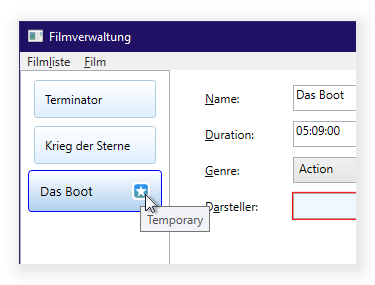
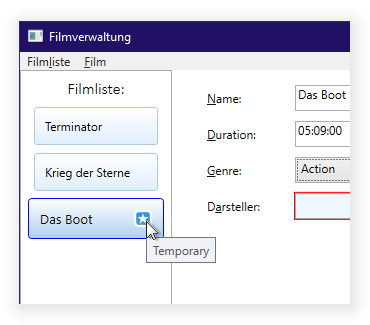
Instances of __IsExternalInit class removed; title added to film list
- Issue https://github.com/dotnet/roslyn/issues/50696 has been solved for this project

- Issue https://github.com/dotnet/roslyn/issues/50738 has been solved for this project

diff --git a/WPF/MainWindow.xaml b/WPF/MainWindow.xaml
@@ -25,11 +25,14 @@
 			<ResourceDictionary>
 				<vm:FilmlisteVM x:Key="filme" />
 
+				<SolidColorBrush x:Key="ListBorderBrush" Color="#FFABAdB3"/>
+
 				<ResourceDictionary.MergedDictionaries>
 					<ResourceDictionary Source="SnapToDevicePixelsStyles.xaml"/>
 				</ResourceDictionary.MergedDictionaries>
 			</ResourceDictionary>
 		</DockPanel.Resources>
+
 		<DockPanel.DataContext>
 			<StaticResource ResourceKey="filme"/>
 		</DockPanel.DataContext>
@@ -52,116 +55,121 @@
 		</Menu>
 
 		<DockPanel>
-			<ListBox x:Name="Filmliste" ItemsSource="{Binding}" DockPanel.Dock="Left" Padding="6,4" HorizontalContentAlignment="Stretch" MinWidth="150" SelectionChanged="Filmliste_SelectionChanged">
-				<ListBox.ItemContainerStyle>
-					<Style TargetType="{x:Type ListBoxItem}">
-						<Setter Property="Template">
-							<Setter.Value>
-								<ControlTemplate TargetType="{x:Type ListBoxItem}">
-									<ControlTemplate.Resources>
-										<LinearGradientBrush x:Key="background" StartPoint="0,0" EndPoint="0,1">
-											<GradientStop Offset="0" Color="white"/>
-											<GradientStop Offset="1" Color="#e0eeff"/>
-										</LinearGradientBrush>
+			<Border Padding="0,8" BorderBrush="{StaticResource ListBorderBrush}" BorderThickness="1">
+				<DockPanel>
+					<TextBlock DockPanel.Dock="Top" Text="Filmliste:" FontFamily="Calibri Light, Arial" FontSize="16" HorizontalAlignment="Center"/>
+					<ListBox x:Name="Filmliste" ItemsSource="{Binding}" DockPanel.Dock="Left" Padding="6,4" HorizontalContentAlignment="Stretch" MinWidth="150" SelectionChanged="Filmliste_SelectionChanged" BorderThickness="0">
+						<ListBox.ItemContainerStyle>
+							<Style TargetType="{x:Type ListBoxItem}">
+								<Setter Property="Template">
+									<Setter.Value>
+										<ControlTemplate TargetType="{x:Type ListBoxItem}">
+											<ControlTemplate.Resources>
+												<LinearGradientBrush x:Key="background" StartPoint="0,0" EndPoint="0,1">
+													<GradientStop Offset="0" Color="white"/>
+													<GradientStop Offset="1" Color="#e0eeff"/>
+												</LinearGradientBrush>
 
-										<LinearGradientBrush x:Key="backgroundActiveSel" StartPoint="0,0" EndPoint="0,1">
-											<GradientStop Offset="0" Color="white"/>
-											<GradientStop Offset="1" Color="#b0d0ef"/>
-										</LinearGradientBrush>
+												<LinearGradientBrush x:Key="backgroundActiveSel" StartPoint="0,0" EndPoint="0,1">
+													<GradientStop Offset="0" Color="white"/>
+													<GradientStop Offset="1" Color="#b0d0ef"/>
+												</LinearGradientBrush>
 
-										<LinearGradientBrush x:Key="backgroundSel" StartPoint="0,0" EndPoint="0,1">
-											<GradientStop Offset="0" Color="white"/>
-											<GradientStop Offset="1" Color="#c8e0f8"/>
-										</LinearGradientBrush>
+												<LinearGradientBrush x:Key="backgroundSel" StartPoint="0,0" EndPoint="0,1">
+													<GradientStop Offset="0" Color="white"/>
+													<GradientStop Offset="1" Color="#c8e0f8"/>
+												</LinearGradientBrush>
 
-										<Duration x:Key="zoomInTime">0:0:0.2</Duration>
-										<Duration x:Key="zoomOutTime">0:0:0.4</Duration>
-										<CubicEase x:Key="easing"/>
-									</ControlTemplate.Resources>
+												<Duration x:Key="zoomInTime">0:0:0.2</Duration>
+												<Duration x:Key="zoomOutTime">0:0:0.4</Duration>
+												<CubicEase x:Key="easing"/>
+											</ControlTemplate.Resources>
 
-									<Border x:Name="Bd" BorderBrush="#acd" BorderThickness="1" Padding="10" CornerRadius="3" Margin="{Binding RelativeSource={RelativeSource AncestorType=ListBox},Path=Padding}" RenderTransformOrigin="0.5,0.5" Background="{StaticResource background}">
-										<Border.RenderTransform>
-											<ScaleTransform x:Name="sTr"/>
-										</Border.RenderTransform>
-										<ContentPresenter HorizontalAlignment="{TemplateBinding HorizontalContentAlignment}" SnapsToDevicePixels="{TemplateBinding SnapsToDevicePixels}" VerticalAlignment="{TemplateBinding VerticalContentAlignment}"/>
-									</Border>
+											<Border x:Name="Bd" BorderBrush="#acd" BorderThickness="1" Padding="10" CornerRadius="3" Margin="{Binding RelativeSource={RelativeSource AncestorType=ListBox},Path=Padding}" RenderTransformOrigin="0.5,0.5" Background="{StaticResource background}">
+												<Border.RenderTransform>
+													<ScaleTransform x:Name="sTr"/>
+												</Border.RenderTransform>
+												<ContentPresenter HorizontalAlignment="{TemplateBinding HorizontalContentAlignment}" SnapsToDevicePixels="{TemplateBinding SnapsToDevicePixels}" VerticalAlignment="{TemplateBinding VerticalContentAlignment}"/>
+											</Border>
 
-									<ControlTemplate.Triggers>
-										<MultiTrigger>
-											<MultiTrigger.Conditions>
-												<Condition Property="IsMouseOver" Value="True"/>
-											</MultiTrigger.Conditions>
-											<MultiTrigger.EnterActions>
-												<BeginStoryboard>
-													<Storyboard>
-														<DoubleAnimation To="1.1" Duration="{StaticResource zoomInTime}" Storyboard.TargetName="sTr" Storyboard.TargetProperty="ScaleX" EasingFunction="{StaticResource easing}"/>
-														<DoubleAnimation To="1.1" Duration="{StaticResource zoomInTime}" Storyboard.TargetName="sTr" Storyboard.TargetProperty="ScaleY" EasingFunction="{StaticResource easing}"/>
-													</Storyboard>
-												</BeginStoryboard>
-											</MultiTrigger.EnterActions>
-											<MultiTrigger.ExitActions>
-												<BeginStoryboard>
-													<Storyboard>
-														<DoubleAnimation Duration="{StaticResource zoomOutTime}" Storyboard.TargetName="sTr" Storyboard.TargetProperty="ScaleX" EasingFunction="{StaticResource easing}"/>
-														<DoubleAnimation Duration="{StaticResource zoomOutTime}" Storyboard.TargetName="sTr" Storyboard.TargetProperty="ScaleY" EasingFunction="{StaticResource easing}"/>
-													</Storyboard>
-												</BeginStoryboard>
-											</MultiTrigger.ExitActions>
-										</MultiTrigger>
-										<MultiTrigger>
-											<MultiTrigger.Conditions>
-												<Condition Property="Selector.IsSelectionActive" Value="False"/>
-												<Condition Property="IsSelected" Value="True"/>
-											</MultiTrigger.Conditions>
-											<Setter Property="Background" TargetName="Bd" Value="{StaticResource backgroundActiveSel}"/>
-											<Setter Property="BorderBrush" TargetName="Bd" Value="Blue"/>
-										</MultiTrigger>
-										<MultiTrigger>
-											<MultiTrigger.Conditions>
-												<Condition Property="Selector.IsSelectionActive" Value="True"/>
-												<Condition Property="IsSelected" Value="True"/>
-											</MultiTrigger.Conditions>
-											<Setter Property="Background" TargetName="Bd" Value="{StaticResource backgroundSel}"/>
-											<Setter Property="BorderBrush" TargetName="Bd" Value="Blue"/>
-										</MultiTrigger>
-										<Trigger Property="IsEnabled" Value="False">
-											<Setter Property="TextElement.Foreground" TargetName="Bd" Value="{DynamicResource {x:Static SystemColors.GrayTextBrushKey}}"/>
-										</Trigger>
-									</ControlTemplate.Triggers>
-								</ControlTemplate>
-							</Setter.Value>
-						</Setter>
-					</Style>
-				</ListBox.ItemContainerStyle>
+											<ControlTemplate.Triggers>
+												<MultiTrigger>
+													<MultiTrigger.Conditions>
+														<Condition Property="IsMouseOver" Value="True"/>
+													</MultiTrigger.Conditions>
+													<MultiTrigger.EnterActions>
+														<BeginStoryboard>
+															<Storyboard>
+																<DoubleAnimation To="1.1" Duration="{StaticResource zoomInTime}" Storyboard.TargetName="sTr" Storyboard.TargetProperty="ScaleX" EasingFunction="{StaticResource easing}"/>
+																<DoubleAnimation To="1.1" Duration="{StaticResource zoomInTime}" Storyboard.TargetName="sTr" Storyboard.TargetProperty="ScaleY" EasingFunction="{StaticResource easing}"/>
+															</Storyboard>
+														</BeginStoryboard>
+													</MultiTrigger.EnterActions>
+													<MultiTrigger.ExitActions>
+														<BeginStoryboard>
+															<Storyboard>
+																<DoubleAnimation Duration="{StaticResource zoomOutTime}" Storyboard.TargetName="sTr" Storyboard.TargetProperty="ScaleX" EasingFunction="{StaticResource easing}"/>
+																<DoubleAnimation Duration="{StaticResource zoomOutTime}" Storyboard.TargetName="sTr" Storyboard.TargetProperty="ScaleY" EasingFunction="{StaticResource easing}"/>
+															</Storyboard>
+														</BeginStoryboard>
+													</MultiTrigger.ExitActions>
+												</MultiTrigger>
+												<MultiTrigger>
+													<MultiTrigger.Conditions>
+														<Condition Property="Selector.IsSelectionActive" Value="False"/>
+														<Condition Property="IsSelected" Value="True"/>
+													</MultiTrigger.Conditions>
+													<Setter Property="Background" TargetName="Bd" Value="{StaticResource backgroundActiveSel}"/>
+													<Setter Property="BorderBrush" TargetName="Bd" Value="Blue"/>
+												</MultiTrigger>
+												<MultiTrigger>
+													<MultiTrigger.Conditions>
+														<Condition Property="Selector.IsSelectionActive" Value="True"/>
+														<Condition Property="IsSelected" Value="True"/>
+													</MultiTrigger.Conditions>
+													<Setter Property="Background" TargetName="Bd" Value="{StaticResource backgroundSel}"/>
+													<Setter Property="BorderBrush" TargetName="Bd" Value="Blue"/>
+												</MultiTrigger>
+												<Trigger Property="IsEnabled" Value="False">
+													<Setter Property="TextElement.Foreground" TargetName="Bd" Value="{DynamicResource {x:Static SystemColors.GrayTextBrushKey}}"/>
+												</Trigger>
+											</ControlTemplate.Triggers>
+										</ControlTemplate>
+									</Setter.Value>
+								</Setter>
+							</Style>
+						</ListBox.ItemContainerStyle>
 
-				<ListBox.ItemTemplate>
-					<DataTemplate>
-						<Grid VerticalAlignment="Center">
-							<Grid.ColumnDefinitions>
-								<ColumnDefinition/>
-								<ColumnDefinition Width="5"/>
-								<ColumnDefinition Width="Auto"/>
-							</Grid.ColumnDefinitions>
+						<ListBox.ItemTemplate>
+							<DataTemplate>
+								<Grid VerticalAlignment="Center">
+									<Grid.ColumnDefinitions>
+										<ColumnDefinition/>
+										<ColumnDefinition Width="5"/>
+										<ColumnDefinition Width="Auto"/>
+									</Grid.ColumnDefinitions>
 
-							<TextBlock Text="{Binding Name}">
-								<TextBlock.Style>
-									<Style>
-										<Setter Property="Validation.ErrorTemplate">
-											<Setter.Value>
-												<ControlTemplate>
-													<AdornedElementPlaceholder/>
-												</ControlTemplate>
-											</Setter.Value>
-										</Setter>
-									</Style>
-								</TextBlock.Style>
-							</TextBlock>
-							<Image Grid.Column="2" d:Source="{StaticResource Confirmed}" Source="{Binding Path=EditState, Converter={StaticResource stateImgConverter}}" ToolTip="{Binding Path=EditState}"/>
+									<TextBlock Text="{Binding Name}">
+										<TextBlock.Style>
+											<Style>
+												<Setter Property="Validation.ErrorTemplate">
+													<Setter.Value>
+														<ControlTemplate>
+															<AdornedElementPlaceholder/>
+														</ControlTemplate>
+													</Setter.Value>
+												</Setter>
+											</Style>
+										</TextBlock.Style>
+									</TextBlock>
+									<Image Grid.Column="2" d:Source="{StaticResource Confirmed}" Source="{Binding Path=EditState, Converter={StaticResource stateImgConverter}}" ToolTip="{Binding Path=EditState}"/>
 
-						</Grid>
-					</DataTemplate>
-				</ListBox.ItemTemplate>
-			</ListBox>
+								</Grid>
+							</DataTemplate>
+						</ListBox.ItemTemplate>
+					</ListBox>
+				</DockPanel>
+			</Border>
 
 			<Grid>
 				<Grid.RowDefinitions>
@@ -203,7 +211,7 @@
 						<uc:MaskedRegexTextBox Grid.Column="1" Grid.Row="1" Margin="{StaticResource margin}" Mask="0?[0-5]:[0-5]\d:[0-5]\d" ToolTip="Enter a duration between 30 seconds and 3 hours." Text="{Binding Path=Duration}"/>
 						<ComboBox Grid.Column="1" Grid.Row="2" Margin="{StaticResource margin}" ItemsSource="{Binding Source={StaticResource genre}}" SelectedItem="{Binding Path=Genre, Converter={StaticResource enumConverter}}"/>
 						<ItemsControl Grid.Column="1" Grid.Row="3" Margin="{StaticResource margin}" ItemsSource="{Binding Path=Darsteller}" IsTabStop="False"
-													Background="AliceBlue" BorderBrush="#FFABAdB3" BorderThickness="1" Grid.IsSharedSizeScope="True" MouseUp="ListBox_MouseUp">
+													Background="AliceBlue" BorderBrush="{StaticResource ListBorderBrush}" BorderThickness="1" Grid.IsSharedSizeScope="True" MouseUp="ListBox_MouseUp">
 							<ItemsControl.ItemTemplate>
 								<DataTemplate>
 									<Grid>

diff --git a/WPF/DarstellerWindow.xaml b/WPF/DarstellerWindow.xaml
@@ -24,7 +24,7 @@
 			<MenuItem Header="Schauspieler_liste" ItemsSource="{Binding Path=Darsteller.Commands}">
 				<MenuItem.ItemTemplate>
 					<DataTemplate>
-						<MenuItem CommandParameter="{Binding ElementName=Grid, Path=SelectedItem}" Command="{Binding}" Header="{Binding Path=Text}"/>
+						<MenuItem Command="{Binding}" CommandParameter="{Binding ElementName=Grid, Path=SelectedItem}" Header="{Binding Path=Text}"/>
 					</DataTemplate>
 				</MenuItem.ItemTemplate>
 			</MenuItem>

diff --git a/DataRepository/__IsExternalInit.cs b/DataRepository/__IsExternalInit.cs
@@ -1,4 +1,4 @@
 namespace System.Runtime.CompilerServices
 {
-  public class IsExternalInit { }
+	internal class IsExternalInit { }
 }

diff --git a/readme.md b/readme.md
@@ -20,7 +20,7 @@ Right below the film detail form there are all commands related to the film whil
 
 <br/>
 
-Actors are maintained in a separate Window:
+The list of actors is maintained in a separate Window:
 ![Actor Window](.docs/ActorsWindow.png)
 
 Same rules apply here: All commands related to an actor are found below the input form while alle commands related to the whole list of actors of a film are found at the bottom of the window.
@@ -30,34 +30,48 @@ Same rules apply here: All commands related to an actor are found below the inpu
 
 All data may be edited inline. While editing, every record shifts to one of the following four states:
 
-|||
-|-|-|
-| | Untouched record, identical to repository version. |
-| ![New](.docs/new.png) | New record, yet uncomitted. |
-| ![Dirty](.docs/dirty.png) | Edited record, yet uncomitted. |
-| ![Committed](.docs/committed.png) | Committed record, yet unsaved to repository. |
+<table>
+  <tbody>
+    <tr>
+      <td>&nbsp;</td>
+      <td>Untouched record, identical to repository version.</td>
+    </tr>
+    <tr>
+      <td><img alt="New" src=".docs/new.png"/></td>
+      <td>New record, yet uncomitted.</td>
+    </tr>
+    <tr>
+      <td><img alt="Dirty" src=".docs/dirty.png"/></td>
+      <td>Edited record, yet uncomitted.</td>
+    </tr>
+    <tr>
+      <td><img alt="Committed" src=".docs/committed.png"/></td>
+      <td>Committed record, yet unsaved to repository.</td>
+    </tr>
+  </tbody>
+</table>
 
 <br/>
 
 Films are adorned by the corresponding edit status icon in the film list on the left:
 
-![](.docs/FilmAdded.png)
+![Film Added screenshot](.docs/FilmAdded.png)
 
 <br/>
 
 Actors are adorned by the corresponding edit status icon next to the actor's or acress' name:
 
-![Actor Edited](.docs/ActorEdited.png)
+![Actor Edited screenshot](.docs/ActorEdited.png)
 
 ## Implementer's Notes
 
-All the business logic resides in the view-model code, as suggested by Microsoft's WPF MVVM pattern. There's almost no C# code present in the front-end project.
+All the business logic resides in the view-model code, as suggested by [Microsoft's WPF MVVM pattern guide](https://docs.microsoft.com/archive/msdn-magazine/2009/february/patterns-wpf-apps-with-the-model-view-viewmodel-design-pattern). There's almost no C# code present in the front-end project.
 
 Since this is a front-end test project, I refrained from implementing or utilizing any data storage. This piece
 of demo loads its data from a static in-memory array on application start and discards it when the program
 window closes.
 
-In this solution I kept comments and program labels in German because I planned it to only be a personal demonstration project and I wanted to see how the design adapts to large button texts.
+In this solution I kept comments and program labels in German because I planned it to only be a personal project and I was curious to see how well the design adapts to large button texts.
 
 This Visual Studio 2019 solution includes a wealth of unit tests, performed on the view-model part of the solution.
 
